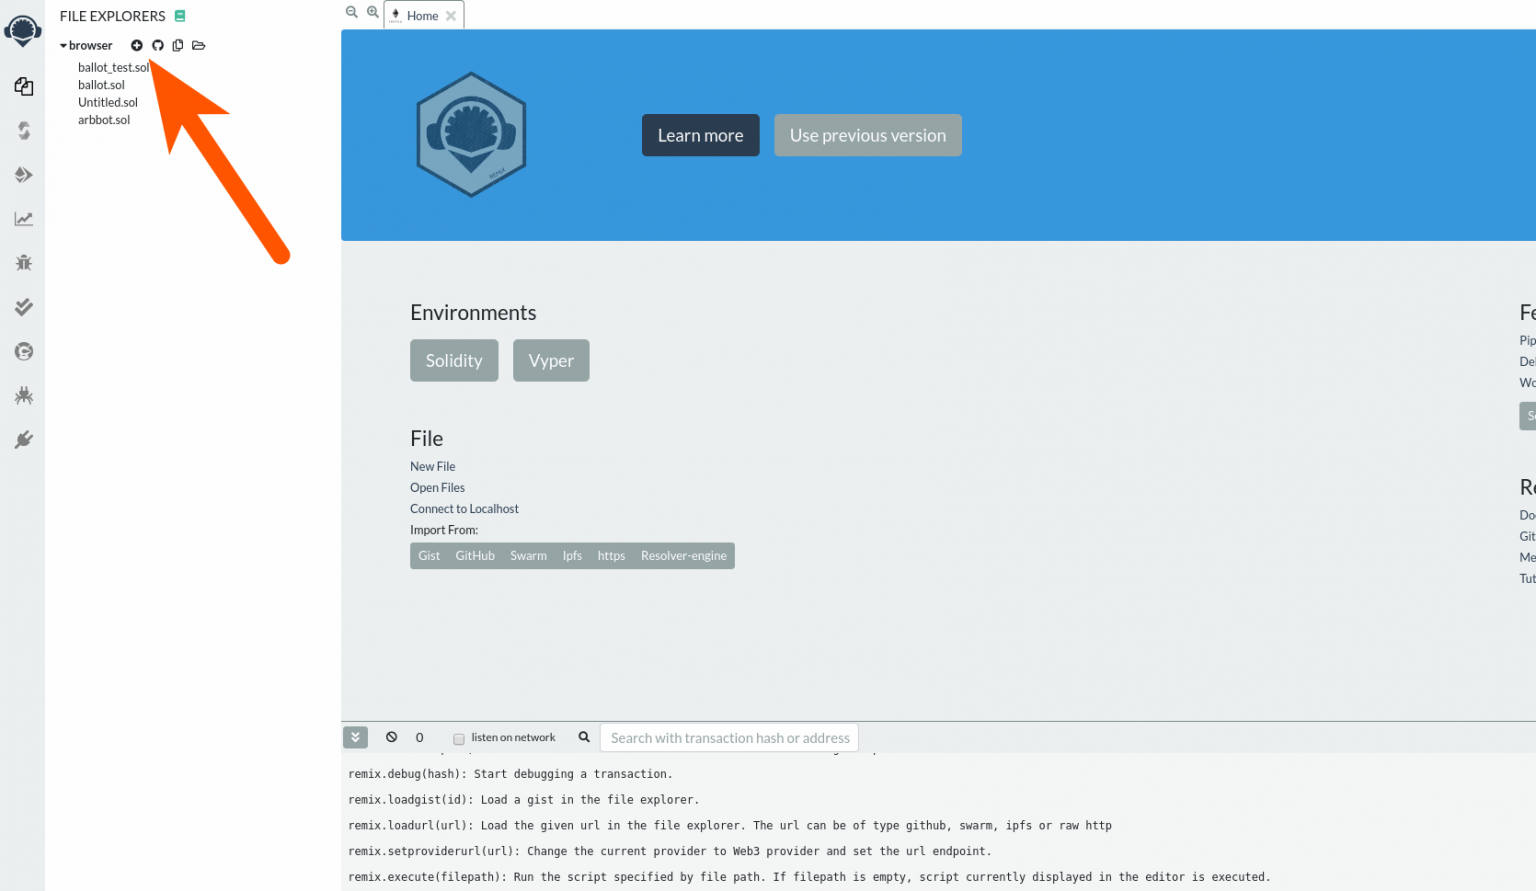
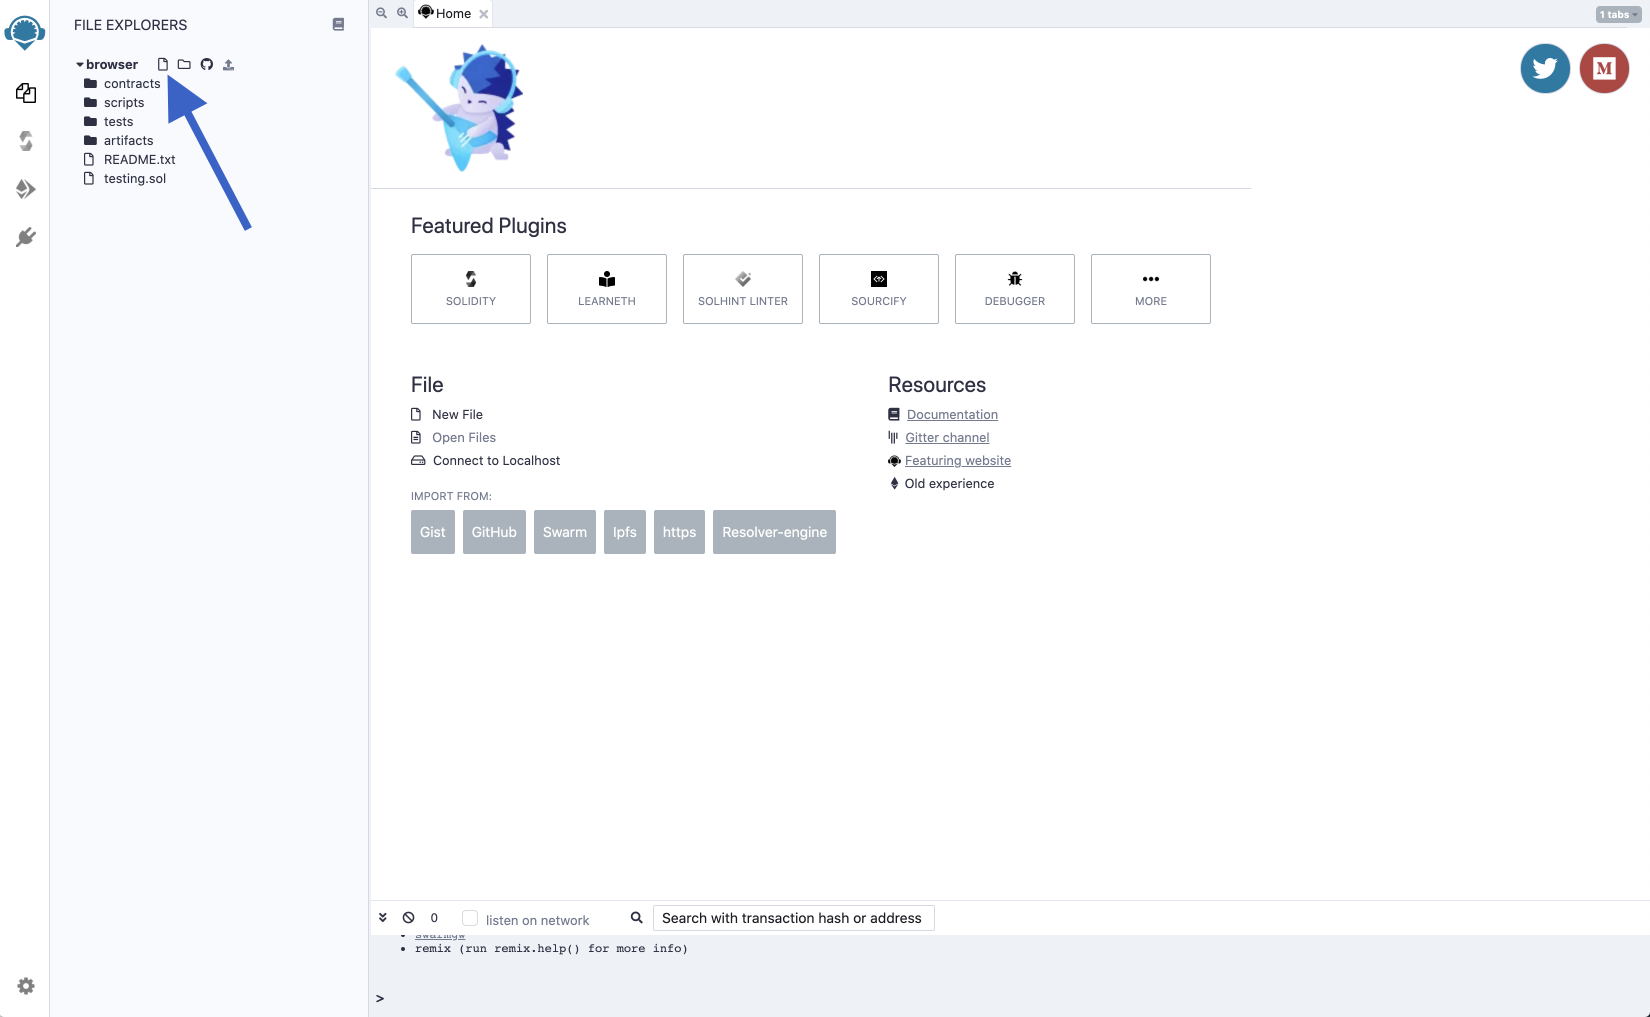
pulled image to local repo

diff --git a/src/content/developers/tutorials/deploying-your-first-smart-contract/index.md b/src/content/developers/tutorials/deploying-your-first-smart-contract/index.md
@@ -20,7 +20,7 @@ Don’t worry, as it’s our fist smart contract, we’ll deploy it on a [local 
 
 First step is to [visit Remix](https://remix.ethereum.org/) and create a new file. On the upper left part of the Remix interface add a new file and enter the file name you want.
 
-![Adding a new file in the Remix interface](https://user-images.githubusercontent.com/26312935/111880824-09eac000-8984-11eb-981c-39f334ceb744.png)
+![Adding a new file in the Remix interface](./remix.png)
 
 In the new file, we’ll paste the following code.
 
